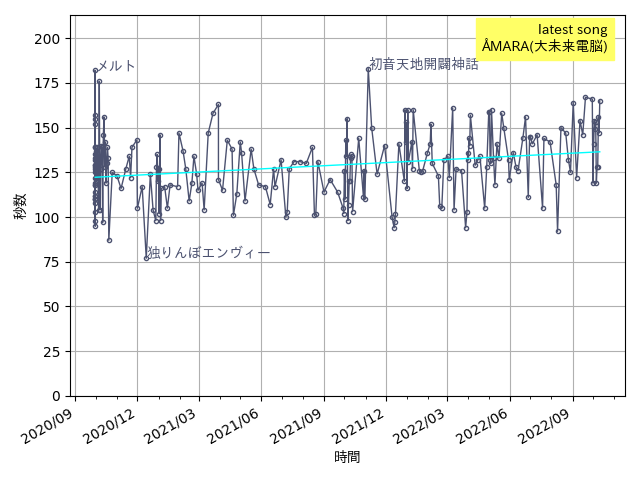
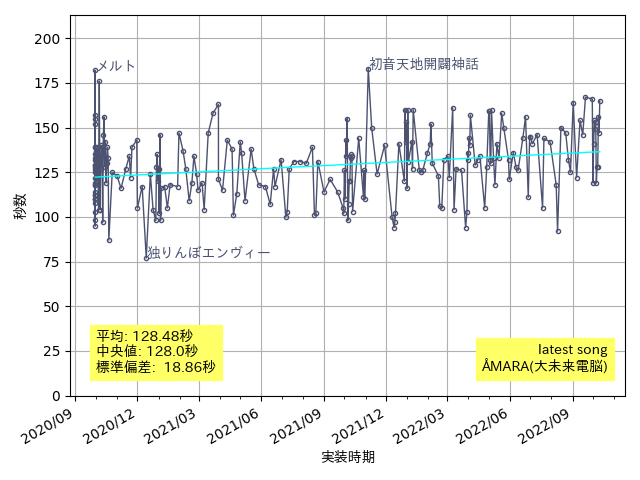
song length update

diff --git a/scripts/make_song_length.py b/scripts/make_song_length.py
@@ -2,6 +2,7 @@ import matplotlib.pyplot as plt
 import matplotlib.dates as mdates
 import datetime
 import numpy as np
+import statistics as stats
 
 
 def get_timestamp(date):
@@ -80,7 +81,7 @@ for chart_type in ['all', 'latest_month']:
         plt.gca().xaxis.set_major_formatter(mdates.DateFormatter('%m/%d'))
 
     plt.gca().set_ylim(0, max(f_seconds) + 30)
-    plt.gca().set_xlabel("時間", fontname="IPAexGothic")
+    plt.gca().set_xlabel("実装時期", fontname="IPAexGothic")
     plt.gca().set_ylabel("秒数", fontname="IPAexGothic")
     plt.gca().grid(True)
 
@@ -121,11 +122,17 @@ for chart_type in ['all', 'latest_month']:
     for label in plt.gca().get_xticklabels(which='major'):
         label.set(rotation=30, horizontalalignment='right')
 
-    plt.gcf().text(0.95, 0.95,
+    plt.gcf().text(0.15, 0.22,
+                   f"平均: {stats.mean(f_seconds):6.2f}秒\n中央値: {stats.median(f_seconds):5.1f}秒\n標準偏差: {stats.stdev(f_seconds):6.2f}秒",
+                   fontname="IPAexGothic",
+                   backgroundcolor="#FFFF66",
+                   ha="left", va="bottom")
+
+    plt.gcf().text(0.95, 0.22,
                    f"latest song\n{f_lines_raw[-1].split(',')[3]}",
                    fontname="IPAexGothic",
                    backgroundcolor="#FFFF66",
-                   ha="right", va="top")
+                   ha="right", va="bottom")
 
     if chart_type == 'all':
         figpath = figfoler + "/song_length_all.png"
